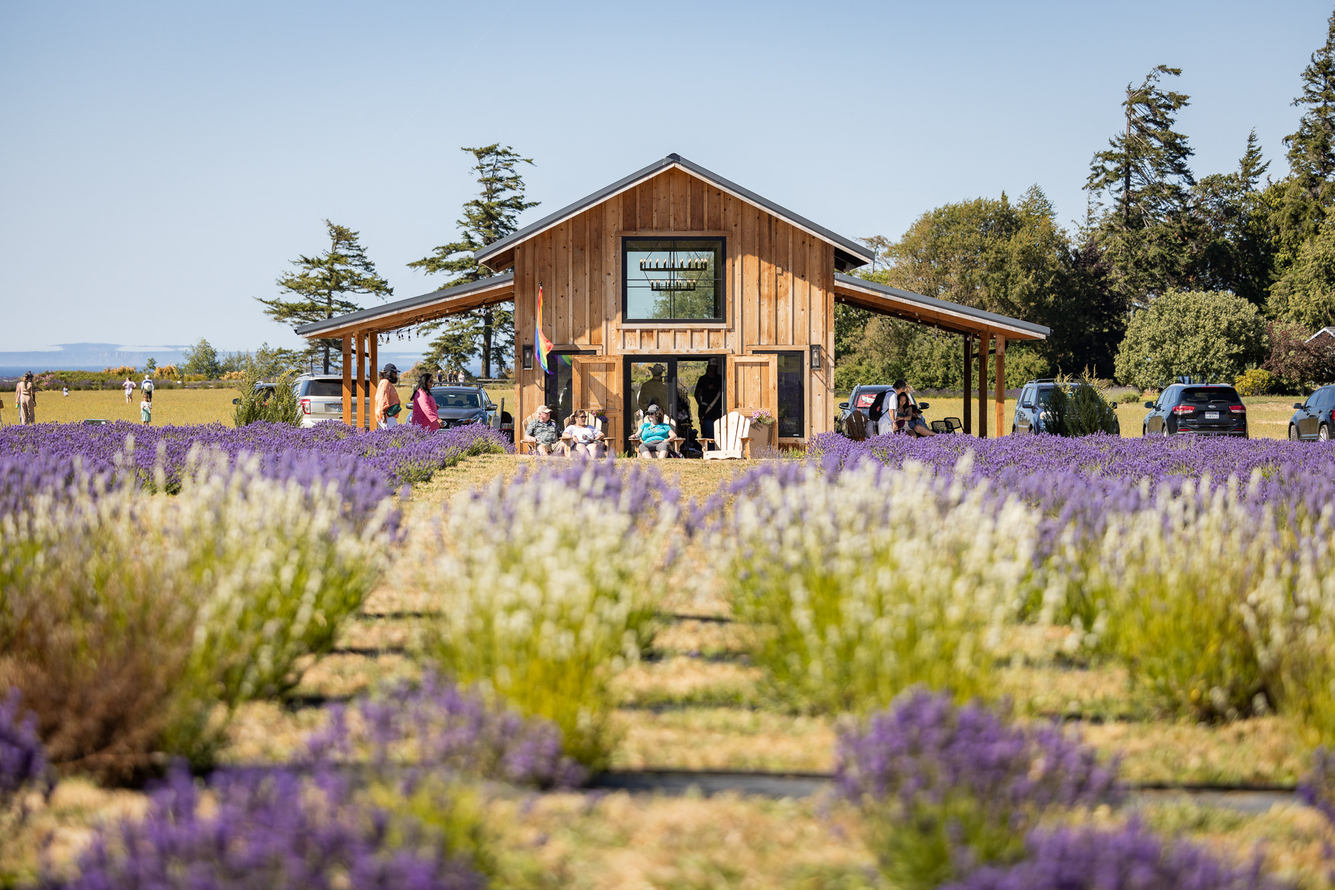
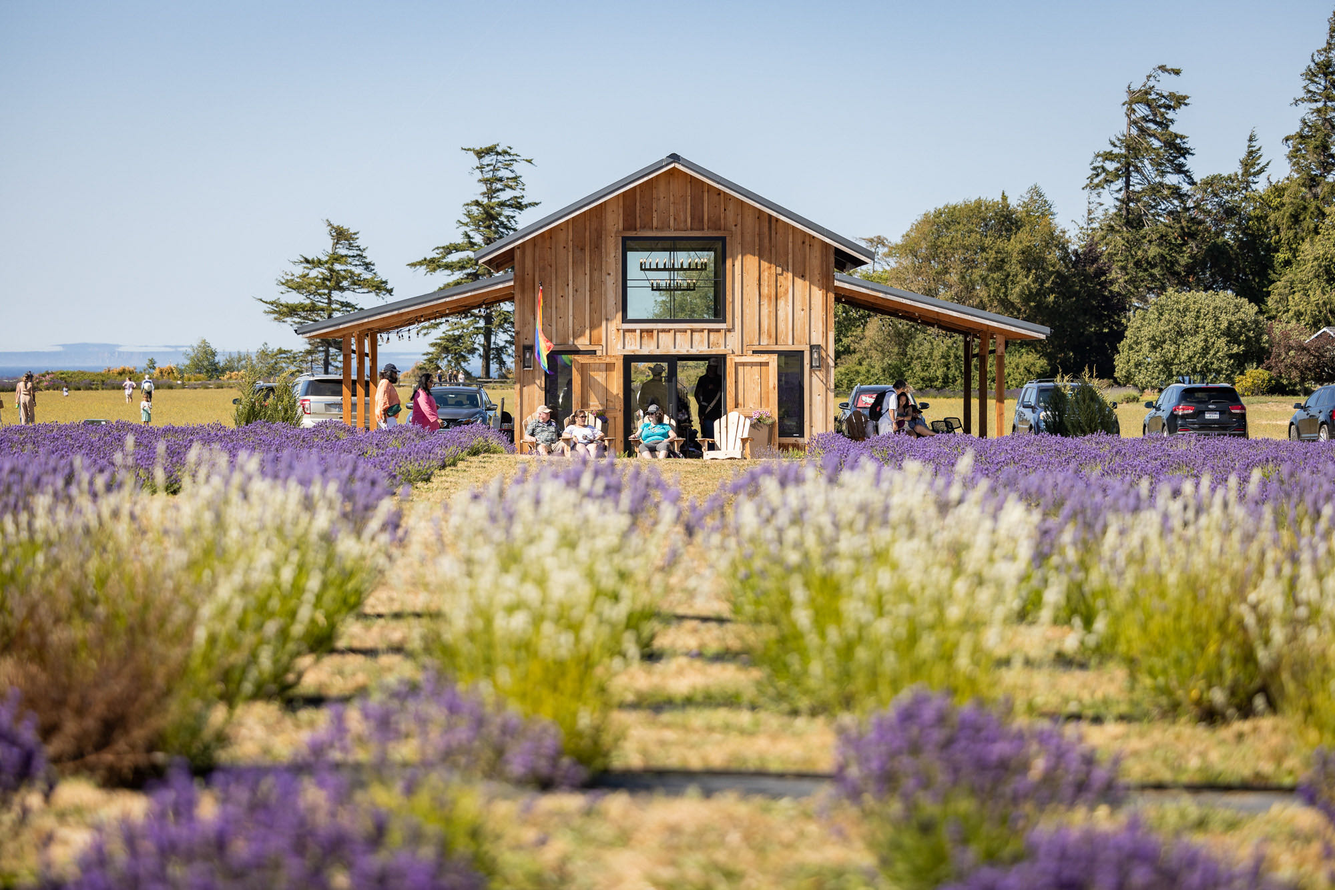
Fix black images by converting to baseline JPEGs
Converted problematic images to baseline (non-progressive) JPEG format:
- lavender-banner.jpg: Removed Lightroom metadata, now baseline JPEG
- building.jpeg: Converted to baseline format
- chairs.jpg: Converted to baseline format
- Switched Salt & Cedar page to use building.jpeg instead of building-fixed.jpeg
- Stripped color management profiles and extended attributes

All images are now standard baseline JPEGs that should render correctly on all browsers and Vercel.

🤖 Generated with [Claude Code](https://claude.com/claude-code)

Changed region(s): [[0.992, 0.2459, 1.0, 0.2766], [0.186, 0.4303, 0.217, 0.461]]

diff --git a/app/salt-cedar-bnb/page.tsx b/app/salt-cedar-bnb/page.tsx
@@ -7,7 +7,7 @@ export default function SaltCedarBnB() {
       {/* Hero Section with Building */}
       <section className="relative h-[400px] md:h-[500px] bg-gray-200">
         <Image
-          src="/images/saltandcedar/building-fixed.jpeg"
+          src="/images/saltandcedar/building.jpeg"
           alt="Salt & Cedar Bed and Breakfast"
           fill
           className="object-cover"
